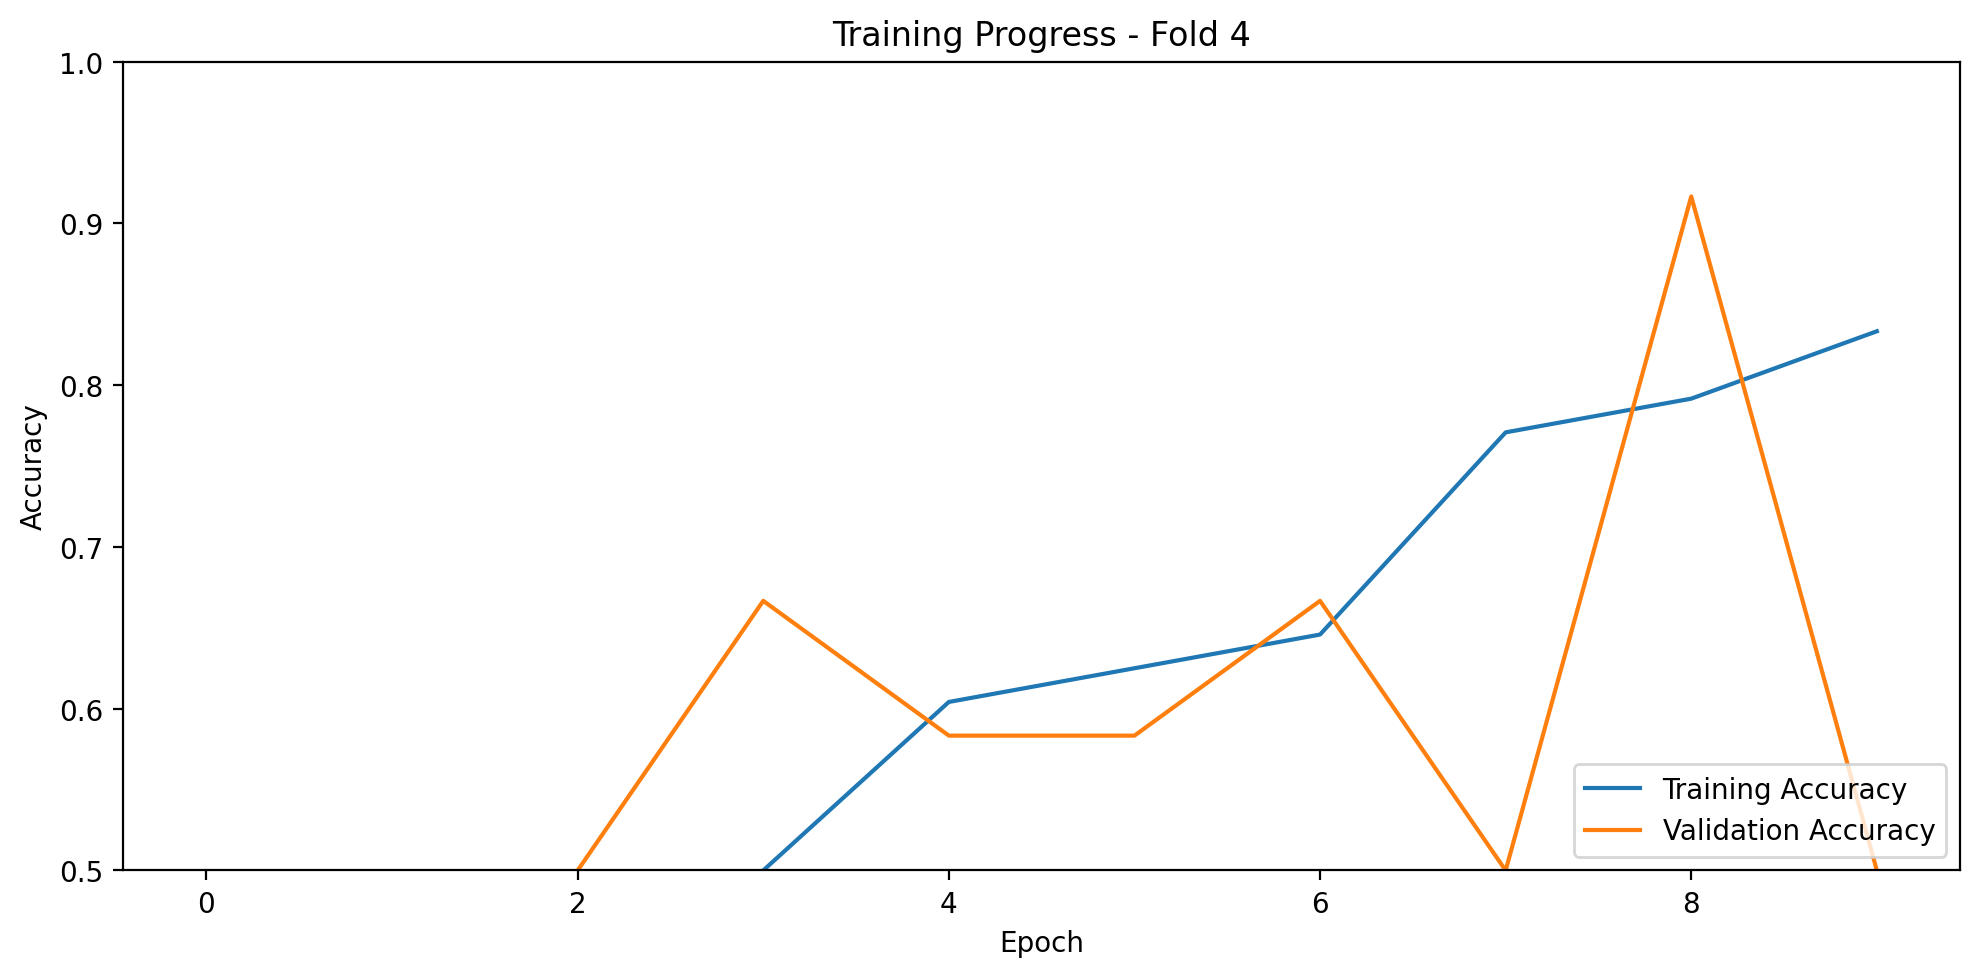
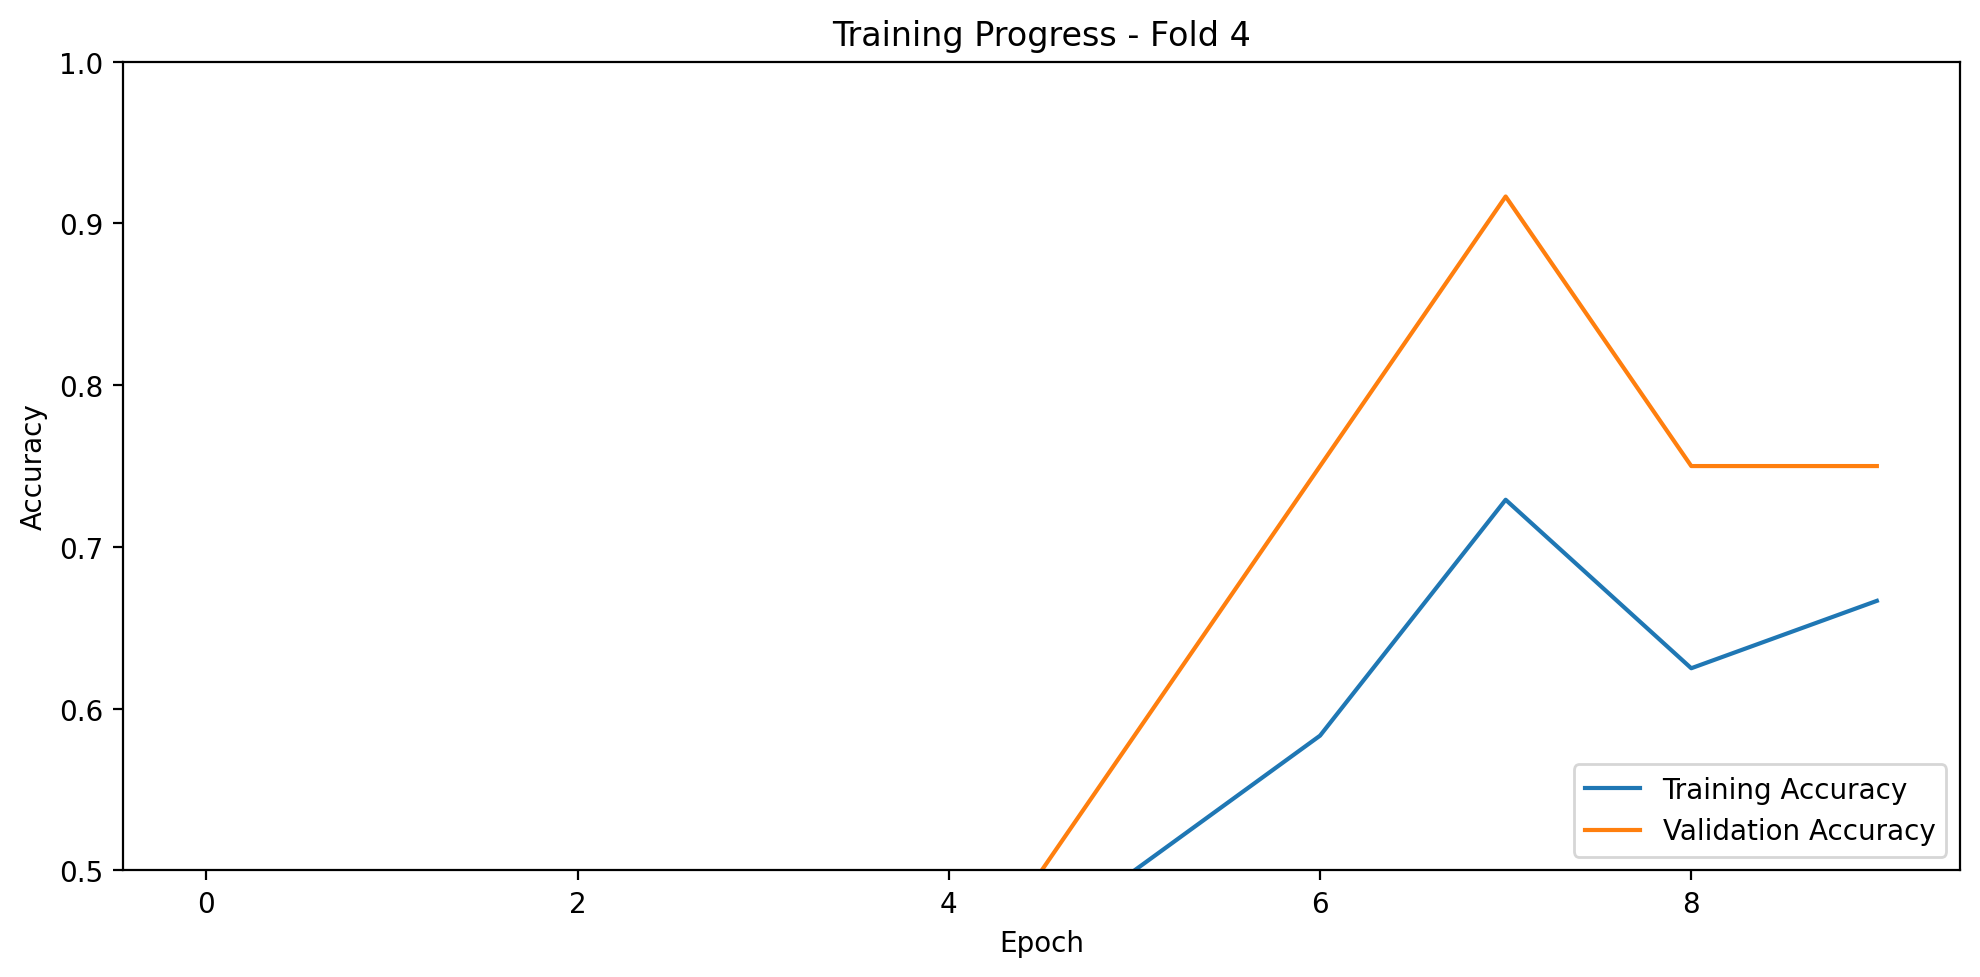
128 filters

diff --git a/src/cnn.py b/src/cnn.py
@@ -261,19 +261,19 @@ def build_tutorial_cnn(input_shape, num_classes):
     """
     model = Sequential([
         # First convolutional block: Extract basic features
-        Conv2D(64, (3, 3), activation='relu', input_shape=input_shape),
+        Conv2D(128, (3, 3), activation='relu', input_shape=input_shape),
         MaxPool2D((2, 2)),
         
         # Second convolutional block: Extract more complex features
-        Conv2D(64, (3, 3), activation='relu'),
+        Conv2D(128, (3, 3), activation='relu'),
         MaxPool2D((2, 2)),
         
         # Third convolutional block: Extract high-level features
-        Conv2D(64, (3, 3), activation='relu'),
+        Conv2D(128, (3, 3), activation='relu'),
         MaxPool2D((2, 2)),
         
         # Fourth convolutional block: Final feature extraction
-        Conv2D(64, (3, 3), activation='relu'),
+        Conv2D(128, (3, 3), activation='relu'),
         MaxPool2D((2, 2)),
         
         # Classification head
